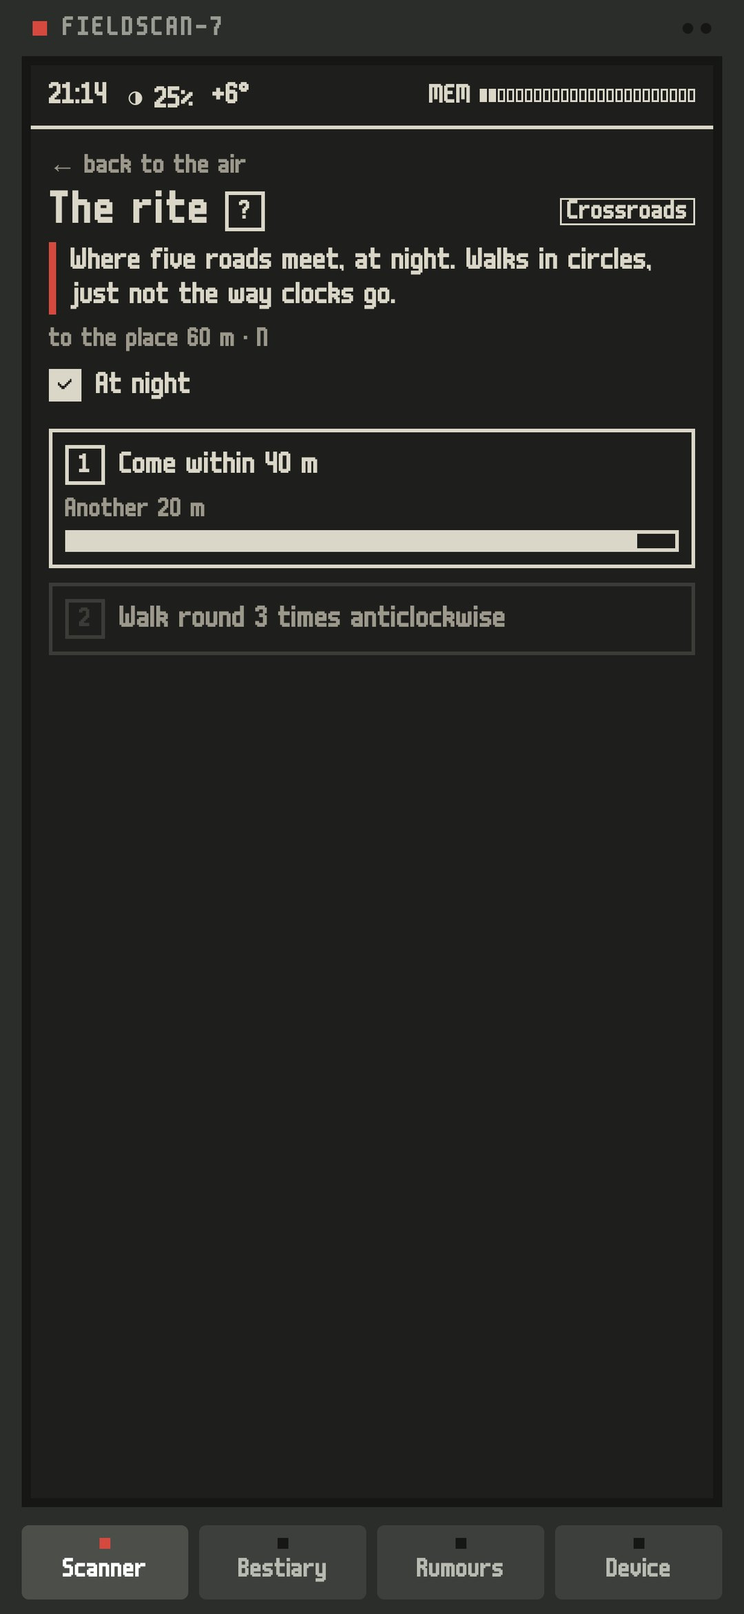
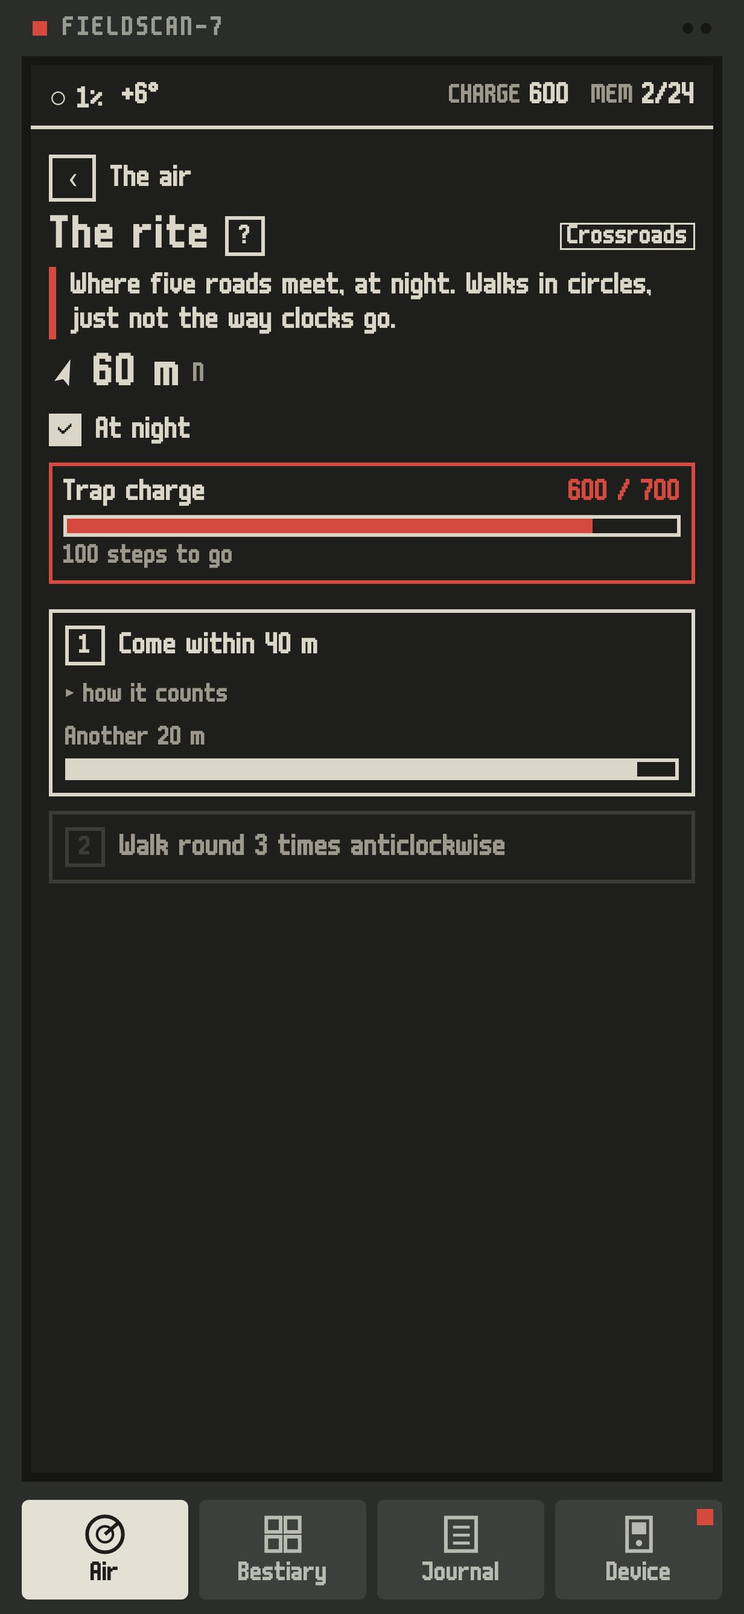
Less text on the screens: explanations move to the manual
Each block kept a sentence explaining itself, though the «?» manual
already says it. Screens now keep only what changes: the top card on
the air shows the whisper and a button, the nearest trace isn't listed
twice, rows are two lines, the radar's scale joins the legend. The
rite folds "how it counts" under each step; Device lists memory once
with one "wearing" line; the signal popup drops its paragraph.

diff --git a/app/src/main/java/app/fieldscan/ui/ScanScreen.kt b/app/src/main/java/app/fieldscan/ui/ScanScreen.kt
@@ -103,22 +103,19 @@ fun ScanScreen(traces: List<Trace>, fix: Fix?, tuning: Tuning, state: GameState,
                 Radar(traces, angle, zoom, turn, fix?.at?.let { me -> finds.map { (_, g) -> me.bearing(g) to me.dist(g) } } ?: emptyList(),
                     fix?.at?.let { me -> state.stops.filter { !it.done }.map { me.bearing(it.at) to me.dist(it.at) } } ?: emptyList(), Modifier.size(200.dp).tap { northUp = !northUp })
             }
-            Legend(finds.isNotEmpty(), state.stops.any { !it.done } && !guided)
+            Legend(finds.isNotEmpty(), state.stops.any { !it.done } && !guided, "⌀ " + Words.dist(zoom, ru) + if (heading == null || northUp) tr(" · С↑", " · N↑") else "")
             val line = when {
                 fix == null -> tr("Ищу спутники…", "Looking for satellites…")
                 tuning.busy -> tr("Настройка на эфир: карта ${tuning.done}/${tuning.total}", "Tuning in: map ${tuning.done}/${tuning.total}")
                 tuning.failed -> tr("Нет связи с картой — слышу только ближние следы", "No map connection — only nearby traces")
-                else -> tr("круг — ", "dial ") + Words.dist(zoom, ru) + " · " + when {
-                    heading == null -> tr("север вверху", "north up")
-                    northUp -> tr("север вверху · нажми — компас", "north up · tap: compass")
-                    else -> tr("по компасу · нажми — север", "by compass · tap: north")
-                }
+                else -> null
             }
-            T(line, Ty.small, Modifier.fillMaxWidth(), center = true)
+            line?.let { T(it, Ty.small, Modifier.fillMaxWidth(), center = true) }
 
             val lead = Guide.lead(state, traces)
+            val top = if (guided) null else nowTrace(traces)
             Section(tr("Следы рядом", "Traces nearby"), traces.count { it.open && !it.caught }.takeIf { traces.isNotEmpty() })
-            for (x in traces) TraceRow(x, ru, heading, lead = x.key == lead?.key) { open(x) }
+            for (x in traces) if (x.key != top?.key) TraceRow(x, ru, heading, lead = x.key == lead?.key) { open(x) }
             if (traces.isEmpty() && fix != null && !tuning.busy) Frame(dashed = true) {
                 T(tr("Рядом тихо. Попробуй дойти до воды, к мостам или дождаться заката.", "It's quiet nearby. Try walking to water or bridges, or wait for sunset."), Ty.small)
             }
@@ -149,9 +146,8 @@ fun ScanScreen(traces: List<Trace>, fix: Fix?, tuning: Tuning, state: GameState,
 /** The one thing worth doing next, on top of the air: a trace you're standing at, the nearest awake one, or a find. */
 @Composable
 private fun NowCard(traces: List<Trace>, finds: List<Pair<app.fieldscan.domain.Find, Geo>>, fix: Fix?, heading: Float?, dark: Boolean, ru: Boolean, onOpen: (Trace) -> Unit) {
-    val awake = traces.filter { it.open && !it.caught }
-    val here = awake.firstOrNull { it.dist <= NEAR }
-    val next = here ?: awake.minByOrNull { it.dist }
+    val next = nowTrace(traces)
+    val here = next?.takeIf { it.dist <= NEAR }
     val find = finds.firstOrNull { !it.first.night || dark }
     @Composable
     fun card(label: String, title: String, dist: Double?, bearing: Double?, note: String?, button: String?, onClick: () -> Unit) {
@@ -167,15 +163,20 @@ private fun NowCard(traces: List<Trace>, finds: List<Pair<app.fieldscan.domain.F
         next != null -> card(
             if (here != null) tr("ТЫ НА МЕСТЕ", "YOU'RE THERE") else tr("БЛИЖАЙШИЙ ЖИВОЙ СЛЕД", "NEAREST AWAKE TRACE"),
             placeTitle(next, ru), next.dist, next.bearing,
-            if (here != null) tr("Открой обряд и выполни шаги прямо здесь.", "Open the rite and do the steps right here.")
-            else tr("Открой обряд, прочитай загадку и иди туда. Ближе 120 м прибор позовёт сам.", "Open the rite, read the riddle and walk there. Within 120 m the device will call."),
+            "«" + next.creature.hint.of(ru) + "»",
             if (here != null) tr("Начать обряд", "Start the rite") else tr("Открыть обряд", "Open the rite"),
         ) { onOpen(next) }
         find != null && fix != null -> card(tr("СЮЖЕТ", "STORY"), find.first.title.of(ru), fix.at.dist(find.second), fix.at.bearing(find.second), find.first.hint.of(ru), null) {}
         traces.isNotEmpty() -> card(tr("СЕЙЧАС", "NOW"), tr("Все рядом спят", "Everyone nearby is asleep"), null, null,
-            tr("Эфир оживает в сумерках и ночью, а странники приходят с погодой. Загляни позже.", "The air wakes at dusk and at night; wanderers come with the weather. Look in later."), null) {}
+            tr("Загляни в сумерках или ночью.", "Look in at dusk or at night."), null) {}
         else -> Unit
     }
+}
+
+/** The trace the top card shows: one you're standing at, else the nearest awake one. */
+private fun nowTrace(traces: List<Trace>): Trace? {
+    val awake = traces.filter { it.open && !it.caught }
+    return awake.firstOrNull { it.dist <= NEAR } ?: awake.minByOrNull { it.dist }
 }
 
 /** A place's name as a row shows it. */
@@ -197,7 +198,7 @@ fun Where(dist: Double, bearing: Double, heading: Float?, ru: Boolean, big: Bool
 
 /** What the marks on the dial mean. */
 @Composable
-private fun Legend(story: Boolean, round: Boolean) {
+private fun Legend(story: Boolean, round: Boolean, scale: String) {
     Row(Modifier.fillMaxWidth().padding(vertical = 4.dp), horizontalArrangement = Arrangement.Center, verticalAlignment = Alignment.CenterVertically) {
         @Composable
         fun item(label: String, draw: androidx.compose.ui.graphics.drawscope.DrawScope.() -> Unit) {
@@ -214,6 +215,7 @@ private fun Legend(story: Boolean, round: Boolean) {
             drawPath(p, red)
         }
         if (round) item(tr("обход", "round")) { drawRect(ink, Offset.Zero, size, style = Stroke(2.dp.toPx())) }
+        T(scale, Ty.small)
     }
 }
 
@@ -305,8 +307,8 @@ private fun WeekCard(state: GameState, fix: Fix?, now: Long, ru: Boolean) {
         }
         if (state.weekPaid) T(tr("Пройден ✓ · +${app.fieldscan.domain.Weekly.PARTS} детали · +${app.fieldscan.domain.Weekly.CHARGE} к заряду. Новый — в понедельник.",
             "Done ✓ · +${app.fieldscan.domain.Weekly.PARTS} parts · +${app.fieldscan.domain.Weekly.CHARGE} charge. A new one on Monday."), Ty.small.copy(color = C.ink))
-        else T(tr("Дойди до трёх мест — прибор отметит сам. Награда: ${app.fieldscan.domain.Weekly.PARTS} детали и ${app.fieldscan.domain.Weekly.CHARGE} шагов заряда.",
-            "Walk to three places: the device ticks them itself. Reward: ${app.fieldscan.domain.Weekly.PARTS} parts and ${app.fieldscan.domain.Weekly.CHARGE} steps of charge."), Ty.small)
+        else T(tr("Награда: ${app.fieldscan.domain.Weekly.PARTS} детали · ${app.fieldscan.domain.Weekly.CHARGE} шагов заряда",
+            "Reward: ${app.fieldscan.domain.Weekly.PARTS} parts · ${app.fieldscan.domain.Weekly.CHARGE} steps of charge"), Ty.small)
         Gap(4.dp)
         for (s in stops) {
             Row(Modifier.padding(vertical = 2.dp), verticalAlignment = Alignment.CenterVertically) {
@@ -335,7 +337,6 @@ private fun FindRow(f: app.fieldscan.domain.Find, at: app.fieldscan.domain.Geo, 
             fix?.at?.let { Where(it.dist(at), it.bearing(at), heading, ru) }
             if (f.night && !dark) T(tr("откликнется только после заката", "answers only after sunset"), Ty.small.copy(color = C.red))
             T(f.hint.of(ru), Ty.small.copy(color = C.ink))
-            T(tr("Дойди до места — прибор отметит сам.", "Walk there: the device will notice by itself."), Ty.small)
         }
     }
 }
@@ -372,8 +373,6 @@ private fun TraceRow(t: Trace, ru: Boolean, heading: Float?, lead: Boolean = fal
                 if (lead) LeadMark()
             }
             Where(t.dist, t.bearing, heading, ru)
-            // what's heard: the creature's own clue, one line
-            if (t.open && !t.caught) T("«" + t.creature.hint.of(ru) + "»", Ty.small, lines = 1)
             // only what differs from the usual is said: you're there, it sleeps, it's caught
             val window = t.creature.conds.filterIsInstance<app.fieldscan.domain.Cond.Window>().firstOrNull()
             when {

diff --git a/app/src/main/java/app/fieldscan/ui/Tips.kt b/app/src/main/java/app/fieldscan/ui/Tips.kt
@@ -29,8 +29,10 @@ enum class Tip(val title: Tx, val lines: List<Tx>) {
             "The radar turns with the phone: the top is what's in front of you. The red notch is where you face, «N» is north. Tap the dial to keep north up."),
         Tx("Над радаром — что делать сейчас: ближайший живой след и кнопка его обряда.",
             "Above the radar is what to do now: the nearest awake trace and a button for its rite."),
-        Tx("В списке у каждого следа: стрелка — куда идти, расстояние и сторона света; в кавычках — что слышно. Столбики справа — сила сигнала. Спящие и пойманные — бледнее.",
-            "Each trace in the list has an arrow pointing the way, the distance and the side of the world; in quotes is what's heard. The bars on the right are signal strength. Asleep and caught ones are paler."),
+        Tx("Под радаром — его размер: «⌀ 500 м» значит, что край круга в 500 м от тебя; «С↑» — север вверху.",
+            "Under the radar is its size: «⌀ 500 m» means the rim is 500 m away; «N↑» means north is up."),
+        Tx("В списке у каждого следа: стрелка — куда идти, расстояние и сторона света. Столбики справа — сила сигнала. Спящие и пойманные — бледнее. В кавычках в карточке сверху — что слышно.",
+            "Each trace in the list has an arrow pointing the way, the distance and the side of the world. The bars on the right are signal strength. Asleep and caught ones are paler. In quotes on the top card is what's heard."),
         Tx("Самого существа прибор не видит. Нажми на след — откроются загадка и обряд.",
             "The device can't see the creature itself. Tap a trace to open its riddle and rite."),
         Tx("Как поймать: нажми на след → прочитай обряд → дойди до места → выполни шаги → сними фотоловушкой. Когда подойдёшь к живому следу ближе 120 м, прибор сам позовёт.",
@@ -44,8 +46,8 @@ enum class Tip(val title: Tx, val lines: List<Tx>) {
             "The ticks are conditions: time of day, weather, who to bring. Until they're met, the steps stay shut."),
         Tx("Шаги идут по порядку. Каждый проверяет телефон: координаты, компас, микрофон, фонарик, неподвижность.",
             "The steps go in order. Each is checked by the phone: position, compass, microphone, torch, stillness."),
-        Tx("Под каждым шагом написано, как его проверяет телефон и что засчитывается.",
-            "Under each step it says how the phone checks it and what counts."),
+        Tx("«Как засчитывается» под шагом раскрывает, что проверяет телефон.",
+            "«How it counts» under a step opens what the phone checks."),
         Tx("Ловушка заряжается шагами. Чем сильнее существо, тем больше заряда нужно, чтобы его удержать: обитателю — 500–700 шагов, хозяину — 3000, легенде — 6000.",
             "The trap charges with steps. The stronger the creature, the more charge it takes to hold: a dweller 500–700 steps, a keeper 3000, a legend 6000."),
         Tx("Сбился — шаг начнётся заново. Пройденные шаги прибор помнит два часа, можно уйти и вернуться.",
@@ -71,12 +73,12 @@ enum class Tip(val title: Tx, val lines: List<Tx>) {
     )),
     DEV(Tx("Прибор", "The device"), listOf(
         Tx("Память маленькая: каждое существо занимает от 1 до 6 КБ.", "Memory is small: each creature takes 1 to 6 KB."),
-        Tx("Снимки в памяти портятся каждый день. Вернись домой и сдай их в архив — там они хранятся навсегда.",
-            "Frames in memory wear every day. Go home and hand them in to the archive, where they keep for good."),
-        Tx("Заряд ловушки копится от шагов: из шагомера телефона или из Health Connect — тогда засчитываются и шаги, пройденные с закрытым прибором.",
-            "The trap's charge builds from steps: from the phone's step counter, or from Health Connect, which also counts steps walked with the device closed."),
-        Tx("За новых существ дают детали. На них ставятся насадки: дальше антенна, больше память.",
-            "New creatures bring parts. Parts buy attachments: a longer antenna, more memory."),
+        Tx("Снимки в памяти портятся на ступень в день. Вернись домой и сдай их в архив — там они хранятся навсегда.",
+            "Frames in memory wear a step a day. Go home and hand them in to the archive, where they keep for good."),
+        Tx("Заряд ловушки копится от шагов, поимка его тратит. Шаги — из шагомера телефона или из Health Connect (Samsung Health, Mi Fitness, Google Fit, часы, браслеты): тогда засчитываются и шаги с закрытым прибором. Без шагомера считает GPS.",
+            "The trap's charge builds from steps, and a catch spends it. Steps come from the phone's counter or from Health Connect (Samsung Health, Mi Fitness, Google Fit, watches, bands), which also counts steps with the device closed. Without a counter, GPS reckons them."),
+        Tx("За новых существ дают детали: обитатель — 1, странник и домовой — 2, хозяин — 3, легенда — 5. На них ставятся насадки: дальше антенна, больше память.",
+            "New creatures bring parts: dweller 1, wanderer and homeling 2, keeper 3, legend 5. Parts buy attachments: a longer antenna, more memory."),
     )),
 }
 

diff --git a/app/src/main/java/app/fieldscan/ui/DeviceScreen.kt b/app/src/main/java/app/fieldscan/ui/DeviceScreen.kt
@@ -60,9 +60,10 @@ fun DeviceScreen(state: GameState, fix: Fix?, now: Long) {
                     }
                 }
                 Gap(4.dp)
-                val wearing = tr("портится", "wearing")
-                if (state.inMemory.isNotEmpty()) T(tr("В памяти: ", "In memory: ") + state.inMemory.joinToString(", ") { Bestiary[it.creature].name.of(ru) + (Rules.worn(it, now).takeIf { w -> w > 0 }?.let { w -> " ($wearing $w/4)" } ?: "") }, Ty.small.copy(color = C.ink))
-                T(tr("Снимки в памяти портятся: каждый день на ступень. В архиве — навсегда.", "Frames in memory wear a step a day. In the archive, they're kept for good."), Ty.small)
+                // names once; how many are wearing, in one line rather than after every name
+                if (state.inMemory.isNotEmpty()) T(tr("В памяти: ", "In memory: ") + state.inMemory.joinToString(", ") { Bestiary[it.creature].name.of(ru) }, Ty.small.copy(color = C.ink))
+                val worn = state.inMemory.count { Rules.worn(it, now) > 0 }
+                if (worn > 0) T(tr("Портятся: $worn из ${state.inMemory.size}", "Wearing: $worn of ${state.inMemory.size}"), Ty.small.copy(color = C.red))
                 Gap(8.dp)
                 if (Guide.stage(state) == Guide.Stage.ARCHIVE) {
                     T(tr("↓ Первый обход: сдай кадр сюда — он сохранится навсегда.", "↓ First round: hand the frame in here, it keeps for good."), Ty.small.copy(color = C.red))
@@ -85,7 +86,6 @@ fun DeviceScreen(state: GameState, fix: Fix?, now: Long) {
             T(tr("Насадки", "Attachments"), Ty.head, Modifier.weight(1f))
             T(tr("детали: ", "parts: ") + state.parts, Ty.body.copy(color = C.red))
         }
-        T(tr("Детали дают за новых: обитатель — 1, странник и домовой — 2, хозяин — 3, легенда — 5.", "Parts come with new catches: dweller 1, wanderer and homeling 2, keeper 3, legend 5."), Ty.small)
         Gap(6.dp)
         for (u in Upgrade.entries) {
             val has = u in state.upgrades
@@ -182,9 +182,7 @@ private fun StepSource(state: GameState) {
                 Box(Modifier.fillMaxWidth(state.charge.toFloat() / Rules.CHARGE_MAX).height(12.dp).background(C.ink))
             }
             Gap(4.dp)
-            T(tr("Шаги заряжают ловушку, поимка тратит заряд. Всего пройдено: ",
-                "Steps charge the trap, a catch spends it. Walked in all: ") +
-                Words.steps(state.walked.toInt(), ru) + ".", Ty.small)
+            T(tr("всего пройдено: ", "walked in all: ") + Words.steps(state.walked.toInt(), ru), Ty.small)
             Gap(8.dp)
             T(tr("Откуда шаги", "Where steps come from"), Ty.body)
             Gap(4.dp)
@@ -195,12 +193,12 @@ private fun StepSource(state: GameState) {
             Gap(4.dp)
             val status = when {
                 !health -> note ?: when {
-                    !co.stepSensor.present -> tr("Шагомера в телефоне нет — шаги считаются по GPS, пока прибор открыт.", "This phone has no step counter: steps are reckoned by GPS while the device is open.")
-                    !sensorOk -> tr("Шагомеру нужно разрешение. Пока его нет, шаги считаются по GPS.", "The step counter needs permission. Until then, steps are reckoned by GPS.")
-                    else -> tr("Шагомер телефона: считает, пока прибор открыт.", "The phone's step counter: counts while the device is open.")
+                    !co.stepSensor.present -> tr("Шагомера нет — считаю по GPS.", "No step counter: reckoning by GPS.")
+                    !sensorOk -> tr("Шагомеру нужно разрешение, пока — по GPS.", "The step counter needs permission; GPS until then.")
+                    else -> tr("Считает, пока прибор открыт.", "Counts while the device is open.")
                 }
                 allowed == null -> "…"
-                allowed == true -> tr("Шаги берутся из Health Connect — и те, что пройдены с закрытым прибором.", "Steps come from Health Connect, including those walked with the device closed.")
+                allowed == true -> tr("Считает и с закрытым прибором.", "Counts with the device closed too.")
                 co.healthSteps.available -> denied
                 co.healthSteps.installable -> install
                 else -> none
@@ -214,9 +212,6 @@ private fun StepSource(state: GameState) {
                 Gap(4.dp)
                 Btn(if (co.healthSteps.available) tr("Разрешить в Health Connect", "Allow in Health Connect") else tr("Установить Health Connect", "Install Health Connect"), outline = true) { pickHealth() }
             }
-            Gap(4.dp)
-            T(tr("Health Connect собирает шаги из Samsung Health, Mi Fitness, Google Fit, часов и браслетов.",
-                "Health Connect gathers steps from Samsung Health, Mi Fitness, Google Fit, watches and bands."), Ty.small)
         }
     }
 }

diff --git a/app/src/main/java/app/fieldscan/ui/RiteScreen.kt b/app/src/main/java/app/fieldscan/ui/RiteScreen.kt
@@ -156,7 +156,6 @@ fun RiteScreen(trace: Trace, m: Moment, places: List<Place>, onBack: () -> Unit,
         fix?.let { f ->
             val d = f.at.dist(place.mid)
             val b = f.at.bearing(place.mid)
-            T(tr("до места", "to the place") + (if (place.name.isNotBlank()) " · ${place.name}" else ""), Ty.small)
             Where(d, b, heading, ru, big = true)
         } ?: T(tr("Ищу спутники…", "Looking for satellites…"), Ty.small)
         Gap(8.dp)
@@ -177,12 +176,11 @@ fun RiteScreen(trace: Trace, m: Moment, places: List<Place>, onBack: () -> Unit,
         Charge(state.charge, pace, weak)
         Gap(8.dp)
         if (!ready) Frame(dashed = true, red = true) {
-            T(tr("Пока не выйдет: не все условия. Шаги откроются, когда всё сойдётся.", "It won't come yet: not all conditions are met. The steps open when they are."), Ty.small.copy(color = C.red))
+            T(tr("Не все условия — шаги закрыты.", "Not all conditions are met: the steps are shut."), Ty.small.copy(color = C.red))
         } else if (full && index >= steps.size) Frame(dashed = true, red = true) {
             T(tr("Память полна. Сдай снимки в архив дома — существо подождёт.", "Memory is full. Hand frames in at home — it will wait."), Ty.small.copy(color = C.red))
         } else if (weak && index >= steps.size) Frame(dashed = true, red = true) {
-            T(tr("Обряд пройден, но ловушка не удержит: пройди ещё ", "The rite is done, but the trap won't hold it: walk another ") + Words.steps(pace - state.charge, ru) +
-                tr(". Шаги обряда сохранены: когда заряда хватит, откроется фотоловушка.", ". The rite's steps are kept: once the charge is enough, the trail camera opens."), Ty.small.copy(color = C.red))
+            T(tr("Обряд пройден, но ловушка не удержит: пройди ещё ", "The rite is done, but the trap won't hold it: walk another ") + Words.steps(pace - state.charge, ru) + ".", Ty.small.copy(color = C.red))
         } else if (shoot && !BuildConfig.DEMO && !Still.on) Viewfinder(
             // the test build skips steps from home, so it doesn't hold you to the place
             toPlace = near.takeIf { !BuildConfig.DEBUG },
@@ -216,9 +214,10 @@ private fun StepCard(i: Int, s: Step, st: Int, place: Place, fix: Fix?, m: Momen
             T(Words.step(s, place.habitat, ru, shy), Ty.body.copy(color = if (st == 0) C.muted else C.ink), Modifier.weight(1f))
         }
         if (st == 1) {
+            var how by remember(i) { mutableStateOf(false) }
+            T((if (how) "▾ " else "▸ ") + tr("как засчитывается", "how it counts"), Ty.small, Modifier.tap { how = !how }.padding(vertical = 4.dp))
+            if (how) T(Words.how(if (s is Step.Note && shy) Step.Still(20) else s, ru), Ty.small)
             Gap(4.dp)
-            T(Words.how(if (s is Step.Note && shy) Step.Still(20) else s, ru), Ty.small)
-            Gap(6.dp)
             when (s) {
                 is Step.Near -> NearStep(s.m, place.at, fix, onDone)
                 Step.Middle -> MiddleStep(place, fix, onDone)
@@ -249,9 +248,7 @@ private fun Charge(have: Int, need: Int, weak: Boolean) {
         }
         Gap(4.dp)
         Progress(have.toFloat() / need, red = weak)
-        Gap(3.dp)
-        T(if (weak) tr("Ловушка заряжается шагами: пройди ещё ", "The trap charges with steps: walk another ") + Words.steps(need - have, ru) + "."
-            else tr("Хватит. Поимка потратит ", "Enough. The catch will spend ") + Words.steps(need, ru) + tr(" из ${have}.", " of $have."), Ty.small)
+        if (weak) { Gap(3.dp); T(tr("ещё ", "") + Words.steps(need - have, ru) + tr("", " to go"), Ty.small) }
     }
 }
 

diff --git a/app/src/main/java/app/fieldscan/ui/Rumours.kt b/app/src/main/java/app/fieldscan/ui/Rumours.kt
@@ -38,7 +38,7 @@ private fun Journal(state: GameState, now: Long) {
     val aside = Story.bonusOpen(state).map { it.title to it.text } +
         app.fieldscan.domain.Finds.made(state).map { app.fieldscan.domain.T("Находка: " + it.title.ru, "Find: " + it.title.en) to it.text }
     var shown by remember { mutableStateOf(Story.pages.getOrNull(state.story - 1)?.title) }
-    T(tr("Записи Н. Ветровой, прежнего хозяина прибора · страниц ${state.story} из ${Story.pages.size}", "Notes of N. Vetrova, the device's last owner · page ${state.story} of ${Story.pages.size}"), Ty.small)
+    T(tr("Записи Н. Ветровой · ${state.story} из ${Story.pages.size}", "N. Vetrova's notes · ${state.story} of ${Story.pages.size}"), Ty.small)
     Section(tr("Новая страница", "Newest page"))
     @Composable
     fun entry(title: app.fieldscan.domain.T, text: app.fieldscan.domain.T) {
@@ -62,7 +62,7 @@ private fun Journal(state: GameState, now: Long) {
                 T(if (done) tr("ЗАДАНИЕ ВЫПОЛНЕНО ✓", "TASK DONE ✓") else tr("ЗАДАНИЕ ЭПИЗОДА", "THE EPISODE'S TASK"), Ty.small.copy(color = if (done) C.ink else C.red))
                 T(e.say.of(ru), Ty.body)
                 if (!done) {
-                    T(tr("Прибор отметит сам. Награда: ${Episodes.PARTS} деталь.", "The device will notice by itself. Reward: ${Episodes.PARTS} part."), Ty.small)
+                    T(tr("Награда: ${Episodes.PARTS} деталь", "Reward: ${Episodes.PARTS} part"), Ty.small)
                     if (Episodes.skippable(state, now)) {
                         Gap(6.dp)
                         Btn(tr("Не выходит — пропустить", "Can't do it: skip"), outline = true) { co.skipTask() }
@@ -98,7 +98,6 @@ fun RumoursScreen(state: GameState, now: Long) {
         Title(tr("Журнал", "Journal"), Tip.RUM)
         Journal(state, now)
         Section(tr("Слухи", "Rumours"), firsts.size.takeIf { it > 0 })
-        T(tr("Пойманные болтают. Так открываются следующие загадки.", "The caught talk. That's how the next riddles open."), Ty.small)
         Gap(6.dp)
         if (firsts.isEmpty()) Frame(dashed = true) { T(tr("Пока никто ничего не рассказал. Поймай первого.", "Nobody has told anything yet. Catch the first one."), Ty.small) }
         for (c in firsts) {

diff --git a/app/src/main/java/app/fieldscan/ui/Root.kt b/app/src/main/java/app/fieldscan/ui/Root.kt
@@ -385,10 +385,8 @@ private fun NearPopup(t: Trace, onLater: () -> Unit, onOpen: () -> Unit) {
         Column(Modifier.padding(24.dp).fillMaxWidth().background(C.paper).border(2.dp, C.red).tap { }.padding(16.dp)) {
             T(tr("СИГНАЛ РЯДОМ", "A SIGNAL CLOSE BY"), Ty.small.copy(color = C.red))
             T(t.place.habitat.name(ru) + (if (t.place.name.isNotBlank()) " · ${t.place.name}" else ""), Ty.head)
-            T(Words.dist(t.dist, ru) + " · " + app.fieldscan.domain.Geo.side(t.bearing, ru) + " · " + tr("след: ", "trace: ") + t.creature.hint.of(ru), Ty.small)
-            Gap(8.dp)
-            T(tr("Оно не спит и его можно поймать. Открой обряд: там загадка и шаги, которые нужно сделать на месте.",
-                "It's awake and can be caught. Open the rite: the riddle is there, and the steps to do on the spot."), Ty.body)
+            T(Words.dist(t.dist, ru) + " · " + app.fieldscan.domain.Geo.side(t.bearing, ru), Ty.small)
+            T("«" + t.creature.hint.of(ru) + "»", Ty.body)
             Gap(14.dp)
             Row(horizontalArrangement = Arrangement.spacedBy(10.dp)) {
                 Btn(tr("Позже", "Later"), Modifier.weight(1f), outline = true, onClick = onLater)

diff --git a/CHANGELOG.md b/CHANGELOG.md
@@ -6,6 +6,21 @@ line "<!-- tg", then 2-4 short lines in Russian for users (what is new, what is 
 then close it like any HTML comment. The release notes carry it, and the chat bot posts those lines.
 -->
 
+## [0.12.1]
+
+- Less text on the screens: the explanations that sat under every block now live in the «?» manual, and each screen keeps only what changes.
+- Air: the top card shows the creature's whisper and a button, without instructions; the nearest trace isn't listed twice; rows are two lines; the radar's scale sits on the legend's line («⌀ 500 m · N↑»).
+- Rite: how a step is checked folds under «how it counts»; the trap's charge says only how many steps are left.
+- Device: memory lists the names once and one line «wearing: N of M»; the step source is one short line. Journal: a shorter heading, rewards without explanations.
+- The «signal close by» popup: distance, side and the whisper, no paragraph.
+
+<!-- tg
+Экраны стали чище: пояснения переехали в справку «?», на экране осталось главное.
+Ближайший след больше не дублируется в списке, строки следов короче.
+В обряде объяснение шага раскрывается по нажатию «как засчитывается».
+В Приборе память читается одной строкой: кто в памяти и сколько портится.
+-->
+
 ## [0.12.0]
 
 - The air opens with what to do now: the nearest awake trace (or "you're there") and a button for its rite. Below it, sections: traces nearby, the story, the round of the week. The title stays put while the list scrolls.
